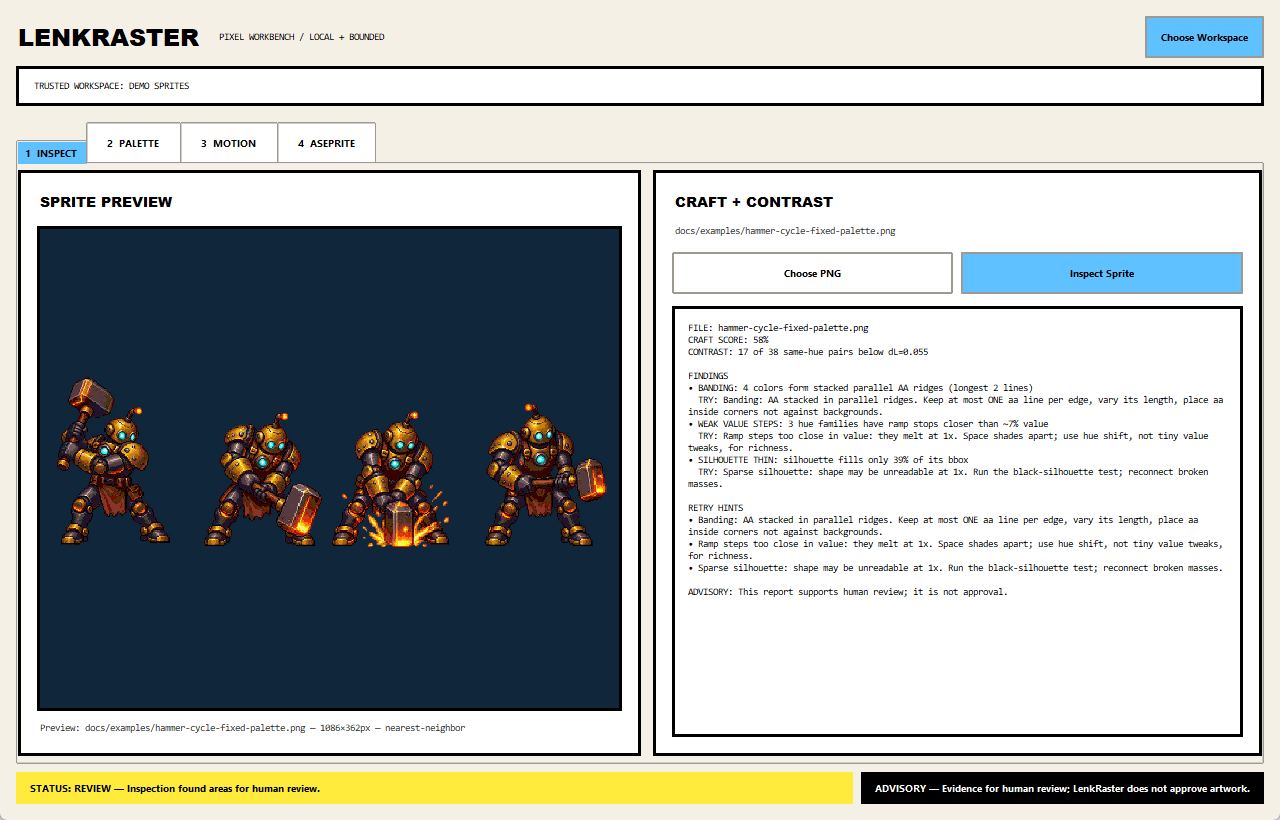
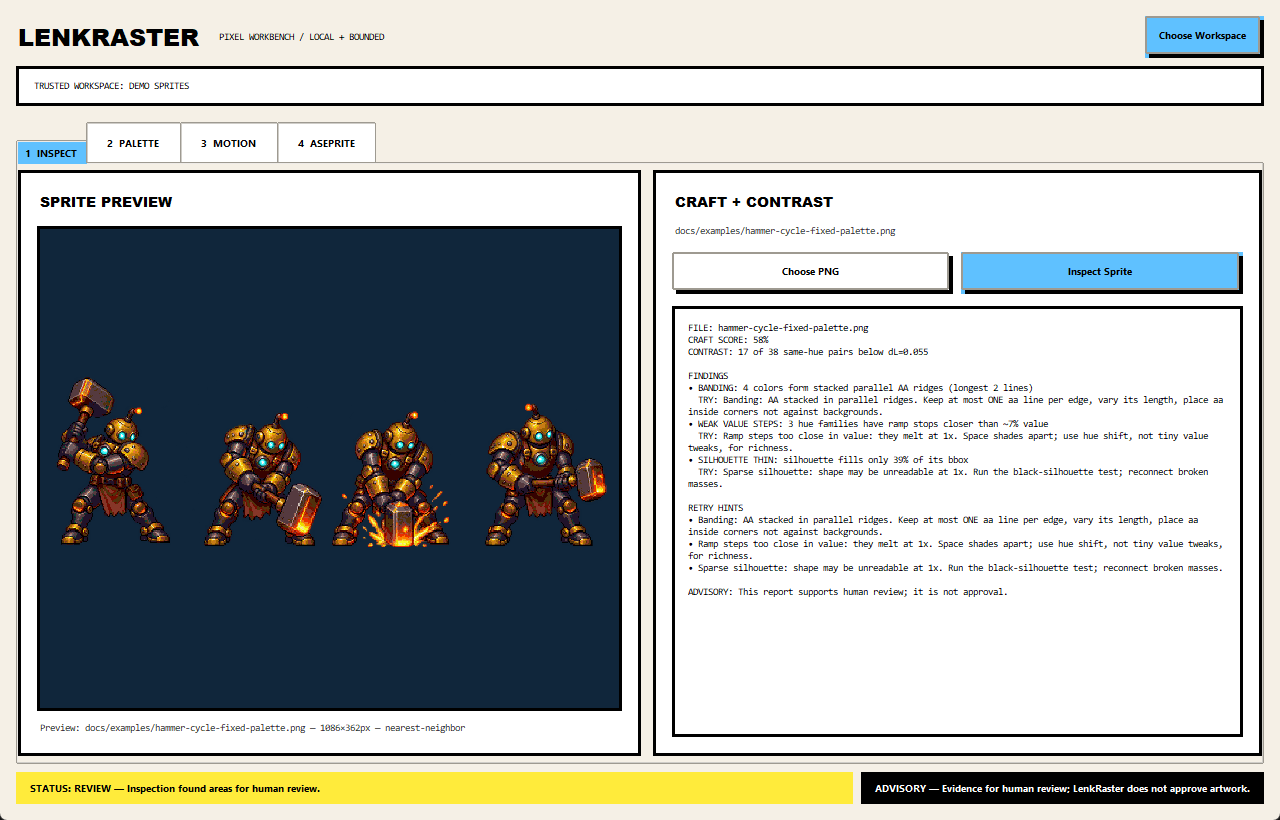
style: add tactile depth to Studio buttons

Changed region(s): [[0.5312, 0.3049, 0.9688, 0.3659], [0.9062, 0.0305, 1.0, 0.0915]]

diff --git a/src/lenkraster/studio/view.py b/src/lenkraster/studio/view.py
@@ -175,19 +175,86 @@ class StudioWindow:
             font=FONTS["body_bold"],
             padding=(METRICS["space_md"], METRICS["space_sm"]),
         )
+        depth = int(METRICS["button_depth"])
+        root_images = getattr(self.root, "_lenkraster_button_shadow_images", None)
+        if root_images is None:
+            image_size = depth * 2 + 1
+            normal_shadow = tk.PhotoImage(
+                master=self.root,
+                width=image_size,
+                height=image_size,
+            )
+            pressed_shadow = tk.PhotoImage(
+                master=self.root,
+                width=image_size,
+                height=image_size,
+            )
+            disabled_shadow = tk.PhotoImage(
+                master=self.root,
+                width=image_size,
+                height=image_size,
+            )
+            normal_shadow.put(
+                COLORS["shadow"],
+                to=(depth + 1, depth, image_size, image_size),
+            )
+            normal_shadow.put(
+                COLORS["shadow"],
+                to=(depth, depth + 1, image_size, image_size),
+            )
+            disabled_shadow.put(
+                COLORS["disabled_shadow"],
+                to=(depth + 1, depth, image_size, image_size),
+            )
+            disabled_shadow.put(
+                COLORS["disabled_shadow"],
+                to=(depth, depth + 1, image_size, image_size),
+            )
+            root_images = (normal_shadow, pressed_shadow, disabled_shadow)
+            self.root._lenkraster_button_shadow_images = root_images
+        self._button_shadow_images = root_images
+        normal_shadow, pressed_shadow, disabled_shadow = root_images
+        base_button_layout = style.layout("TButton")
+        shadow_element = "LenkRaster.Button.shadow"
+        if shadow_element not in style.element_names():
+            style.element_create(
+                shadow_element,
+                "image",
+                normal_shadow,
+                ("disabled", disabled_shadow),
+                ("pressed", pressed_shadow),
+                border=(depth, depth, depth, depth),
+                padding=(0, 0, depth, depth),
+                sticky="nsew",
+            )
+        if not base_button_layout or base_button_layout[0][0] != shadow_element:
+            style.layout(
+                "TButton",
+                [
+                    (
+                        shadow_element,
+                        {"sticky": "nsew", "children": base_button_layout},
+                    )
+                ],
+            )
         style.configure(
             "TButton",
             font=FONTS["body_bold"],
-            padding=(METRICS["space_md"], 11),
+            padding=(9, 8),
             borderwidth=METRICS["border"],
             relief="solid",
             background=COLORS["surface"],
             foreground=COLORS["text"],
-            focuscolor=COLORS["focus"],
+            focuscolor=COLORS["canvas"],
+            focusthickness=2,
         )
         style.map(
             "TButton",
-            background=[("pressed", COLORS["focus"]), ("active", COLORS["accent"])],
+            background=[
+                ("disabled", COLORS["disabled_surface"]),
+                ("pressed", COLORS["focus"]),
+                ("active", COLORS["accent"]),
+            ],
             foreground=[("disabled", COLORS["muted_text"])],
         )
         style.configure(
@@ -197,7 +264,11 @@ class StudioWindow:
         )
         style.map(
             "Primary.TButton",
-            background=[("pressed", COLORS["focus"]), ("active", COLORS["focus"])],
+            background=[
+                ("disabled", COLORS["disabled_surface"]),
+                ("pressed", COLORS["focus"]),
+                ("active", COLORS["focus"]),
+            ],
         )
         style.configure(
             "TNotebook",

diff --git a/tests/test_studio_layout.py b/tests/test_studio_layout.py
@@ -9,6 +9,7 @@ from __future__ import annotations
 from pathlib import Path
 import sys
 import tkinter as tk
+from tkinter import ttk
 import unittest
 
 from PIL import Image
@@ -20,6 +21,7 @@ if str(SOURCE_ROOT) not in sys.path:
     sys.path.insert(0, str(SOURCE_ROOT))
 
 from lenkraster.studio.view import StudioWindow  # noqa: E402
+from lenkraster.studio.theme import COLORS, METRICS  # noqa: E402
 
 
 class StudioLayoutTests(unittest.TestCase):
@@ -121,6 +123,73 @@ class StudioLayoutTests(unittest.TestCase):
             self.assertTrue(widget.instate(["!disabled"]), str(widget))
         self.assertTrue(self.window.palette_combo.instate(["readonly"]))
         self.assertTrue(self.window.dither_order_combo.instate(["readonly"]))
+
+    def test_buttons_have_hard_offset_depth_and_pressed_feedback(self):
+        self.root.update()
+        self.assertTrue(
+            all(
+                isinstance(button, ttk.Button)
+                for button in (
+                    self.window.workspace_button,
+                    self.window.inspect_choose_button,
+                    self.window.inspect_run_button,
+                    self.window.palette_preview_button,
+                    self.window.motion_qa_button,
+                    self.window.aseprite_export_button,
+                )
+            )
+        )
+        style = ttk.Style(self.root)
+        layout = style.layout("TButton")
+        self.assertEqual(layout[0][0], "LenkRaster.Button.shadow")
+        self.assertGreaterEqual(METRICS["button_depth"], 4)
+        self.assertEqual(str(style.lookup("TButton", "relief")), "solid")
+        self.assertEqual(style.lookup("TButton", "focuscolor"), COLORS["canvas"])
+        self.assertEqual(style.lookup("TButton", "background"), COLORS["surface"])
+        self.assertEqual(
+            style.lookup("Primary.TButton", "background"),
+            COLORS["accent"],
+        )
+
+        normal, pressed, disabled = self.window._button_shadow_images
+        center = METRICS["button_depth"]
+        self.assertTrue(normal.transparency_get(center, center))
+        self.assertFalse(normal.transparency_get(center + 1, center))
+        self.assertFalse(normal.transparency_get(center, center + 1))
+        self.assertTrue(pressed.transparency_get(center, center))
+        self.assertTrue(pressed.transparency_get(center + 1, center))
+        self.assertTrue(pressed.transparency_get(center, center + 1))
+        self.assertTrue(disabled.transparency_get(center, center))
+        self.assertFalse(disabled.transparency_get(center + 1, center))
+        self.assertFalse(disabled.transparency_get(center, center + 1))
+
+        background_states = dict(style.map("TButton", "background"))
+        self.assertEqual(background_states["disabled"], COLORS["disabled_surface"])
+        self.assertEqual(background_states["pressed"], COLORS["focus"])
+        self.assertEqual(background_states["active"], COLORS["accent"])
+
+        invocations = []
+        probe = ttk.Button(
+            self.root,
+            text="Depth probe",
+            command=lambda: invocations.append(1),
+        )
+        probe.state(["disabled"])
+        probe.invoke()
+        self.assertEqual(invocations, [])
+        probe.state(["!disabled"])
+        probe.invoke()
+        self.assertEqual(invocations, [1])
+
+        self.window.workspace_button.focus_force()
+        self.root.update()
+        self.assertTrue(self.window.workspace_button.instate(["focus"]))
+
+        self.window._configure_styles()
+        self.assertEqual(
+            ttk.Style(self.root).layout("TButton")[0][0],
+            "LenkRaster.Button.shadow",
+        )
 
 
 if __name__ == "__main__":

diff --git a/tests/test_studio_app.py b/tests/test_studio_app.py
@@ -63,6 +63,9 @@ def test_theme_tokens_have_accessible_foreground_background_pairs():
     required = {
         "background",
         "surface",
+        "disabled_surface",
+        "disabled_shadow",
+        "muted_text",
         "text",
         "accent",
         "on_accent",
@@ -80,6 +83,7 @@ def test_theme_tokens_have_accessible_foreground_background_pairs():
     pairs = (
         ("text", "background"),
         ("text", "surface"),
+        ("muted_text", "disabled_surface"),
         ("on_accent", "accent"),
         ("on_focus", "focus"),
         ("on_success", "success"),

diff --git a/src/lenkraster/studio/theme.py b/src/lenkraster/studio/theme.py
@@ -3,6 +3,8 @@
 COLORS = {
     "background": "#F5F0E6",
     "surface": "#FFFFFF",
+    "disabled_surface": "#D8D3CA",
+    "disabled_shadow": "#767169",
     "text": "#000000",
     "muted_text": "#353535",
     "accent": "#5FC1FF",
@@ -34,6 +36,7 @@ STATUS_LABELS = {
 METRICS = {
     "border": 3,
     "shadow": 6,
+    "button_depth": 4,
     "space_xs": 4,
     "space_sm": 8,
     "space_md": 12,

diff --git a/CHANGELOG.md b/CHANGELOG.md
@@ -16,6 +16,8 @@ use semantic versioning once the first public tag is created.
 
 ### Changed
 
+- Gave Studio's native buttons hard offset shadows, tactile pressed states, muted disabled
+  depth, and a stronger keyboard-focus treatment without adding a UI dependency.
 - Updated the pinned release builder to `build` 1.6.0 and grouped Python
   dependency updates across project and lock-file directories.
 
